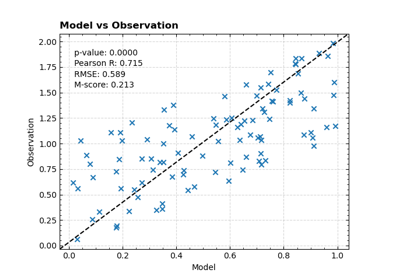
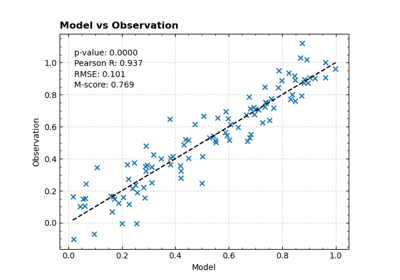
update doc

diff --git a/docs/source/auto_examples/plot_arrcomparison.py b/docs/source/auto_examples/plot_arrcomparison.py
@@ -9,9 +9,9 @@ This example shows how to build the ArrComparison class plot the comparison.
 from cgeniepy.skill import ArrComparison
 import numpy as np
 
-np.random.seed(1923)
+np.random.seed(2024)
 x = np.random.rand(100)
-y = x + np.random.rand(100)
+y = x + np.random.normal(0, 0.1, 100)
 
 ## calculate skill score
 ac = ArrComparison(x, y)

diff --git a/examples/plot_arrcomparison.py b/examples/plot_arrcomparison.py
@@ -9,9 +9,9 @@ This example shows how to build the ArrComparison class plot the comparison.
 from cgeniepy.skill import ArrComparison
 import numpy as np
 
-np.random.seed(1923)
+np.random.seed(2024)
 x = np.random.rand(100)
-y = x + np.random.rand(100)
+y = x + np.random.normal(0, 0.1, 100)
 
 ## calculate skill score
 ac = ArrComparison(x, y)

diff --git a/docs/source/conf.py b/docs/source/conf.py
@@ -15,7 +15,7 @@ sys.path.insert(0, os.path.abspath('../src/cgeniepy/'))
 project = 'cgeniepy'
 copyright = f"2024-{datetime.datetime.now().year}, Rui Ying"
 author = 'Rui Ying'
-release = '0.13.3'
+release = '0.14.3'
 
 
 # -- General configuration ---------------------------------------------------

diff --git a/docs/source/auto_examples/plot_arrcomparison.rst b/docs/source/auto_examples/plot_arrcomparison.rst
@@ -11,7 +11,7 @@
         :class: sphx-glr-download-link-note
 
         :ref:`Go to the end <sphx_glr_download_auto_examples_plot_arrcomparison.py>`
-        to download the full example code
+        to download the full example code.
 
 .. rst-class:: sphx-glr-example-title
 
@@ -34,18 +34,8 @@ This example shows how to build the ArrComparison class plot the comparison.
    :class: sphx-glr-single-img
 
 
-.. rst-class:: sphx-glr-script-out
-
- .. code-block:: none
-
-    <frozen importlib._bootstrap>:241: RuntimeWarning: scipy._lib.messagestream.MessageStream size changed, may indicate binary incompatibility. Expected 56 from C header, got 64 from PyObject
 
 
-
-
-
-
-|
 
 .. code-block:: Python
 
@@ -53,9 +43,9 @@ This example shows how to build the ArrComparison class plot the comparison.
     from cgeniepy.skill import ArrComparison
     import numpy as np
 
-    np.random.seed(1923)
+    np.random.seed(2024)
     x = np.random.rand(100)
-    y = x + np.random.rand(100)
+    y = x + np.random.normal(0, 0.1, 100)
 
     ## calculate skill score
     ac = ArrComparison(x, y)
@@ -64,7 +54,7 @@ This example shows how to build the ArrComparison class plot the comparison.
 
 .. rst-class:: sphx-glr-timing
 
-   **Total running time of the script:** (0 minutes 0.548 seconds)
+   **Total running time of the script:** (0 minutes 1.181 seconds)
 
 
 .. _sphx_glr_download_auto_examples_plot_arrcomparison.py:
@@ -80,6 +70,10 @@ This example shows how to build the ArrComparison class plot the comparison.
     .. container:: sphx-glr-download sphx-glr-download-python
 
       :download:`Download Python source code: plot_arrcomparison.py <plot_arrcomparison.py>`
+
+    .. container:: sphx-glr-download sphx-glr-download-zip
+
+      :download:`Download zipped: plot_arrcomparison.zip <plot_arrcomparison.zip>`
 
 
 .. only:: html

diff --git a/docs/source/auto_examples/sg_execution_times.rst b/docs/source/auto_examples/sg_execution_times.rst
@@ -6,7 +6,7 @@
 
 Computation times
 =================
-**00:04.752** total execution time for 15 files **from auto_examples**:
+**00:01.181** total execution time for 15 files **from auto_examples**:
 
 .. container::
 
@@ -32,16 +32,13 @@ Computation times
    * - Example
      - Time
      - Mem (MB)
-   * - :ref:`sphx_glr_auto_examples_plot_scatter_map.py` (``plot_scatter_map.py``)
-     - 00:04.752
+   * - :ref:`sphx_glr_auto_examples_plot_arrcomparison.py` (``plot_arrcomparison.py``)
+     - 00:01.181
      - 0.0
    * - :ref:`sphx_glr_auto_examples_plot_PO4_distribution.py` (``plot_PO4_distribution.py``)
      - 00:00.000
      - 0.0
    * - :ref:`sphx_glr_auto_examples_plot_additional_cmap.py` (``plot_additional_cmap.py``)
-     - 00:00.000
-     - 0.0
-   * - :ref:`sphx_glr_auto_examples_plot_arrcomparison.py` (``plot_arrcomparison.py``)
      - 00:00.000
      - 0.0
    * - :ref:`sphx_glr_auto_examples_plot_coastal_data.py` (``plot_coastal_data.py``)
@@ -63,6 +60,9 @@ Computation times
      - 00:00.000
      - 0.0
    * - :ref:`sphx_glr_auto_examples_plot_regridded_data.py` (``plot_regridded_data.py``)
+     - 00:00.000
+     - 0.0
+   * - :ref:`sphx_glr_auto_examples_plot_scatter_map.py` (``plot_scatter_map.py``)
      - 00:00.000
      - 0.0
    * - :ref:`sphx_glr_auto_examples_plot_scatterdata.py` (``plot_scatterdata.py``)
